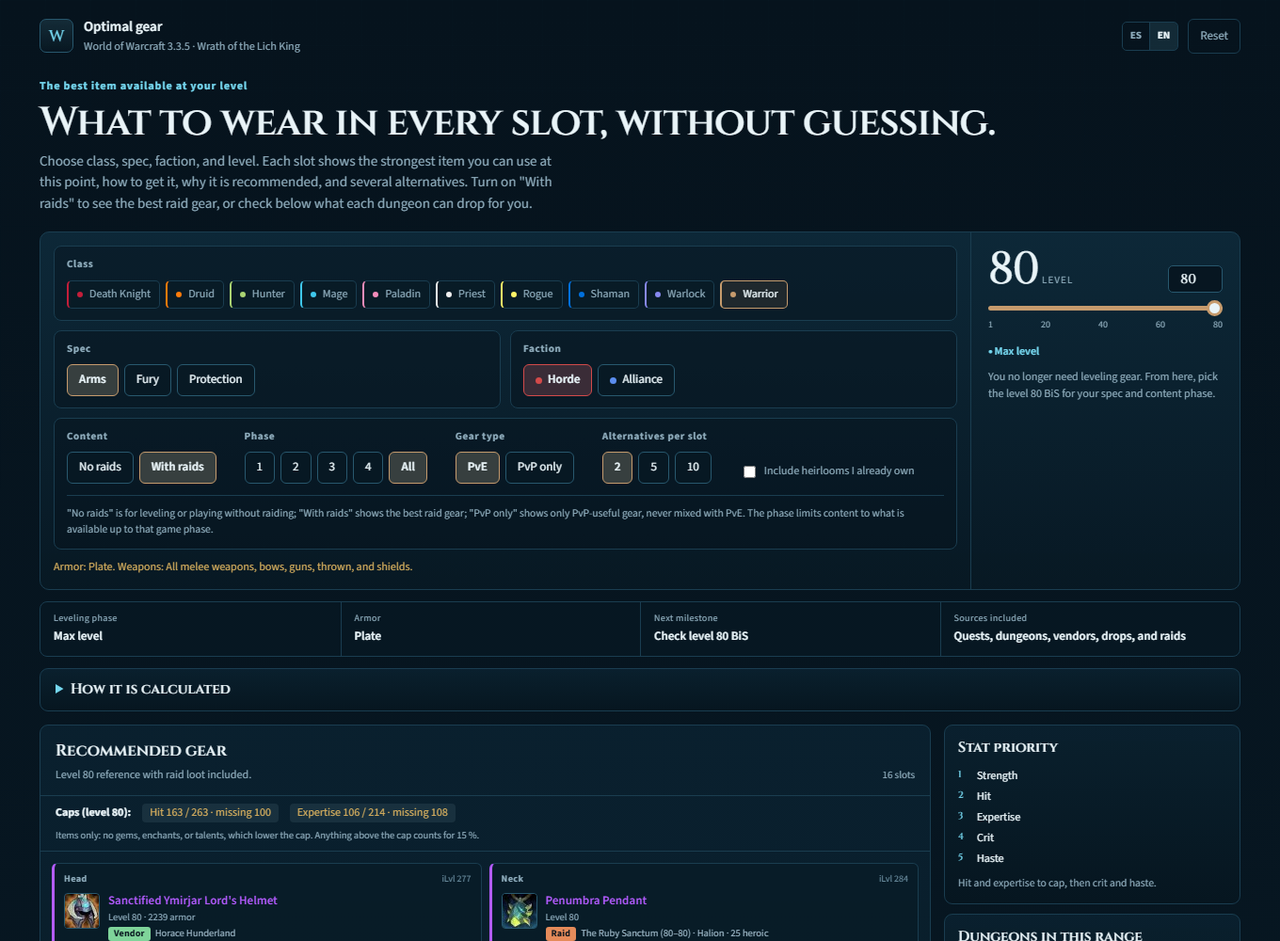
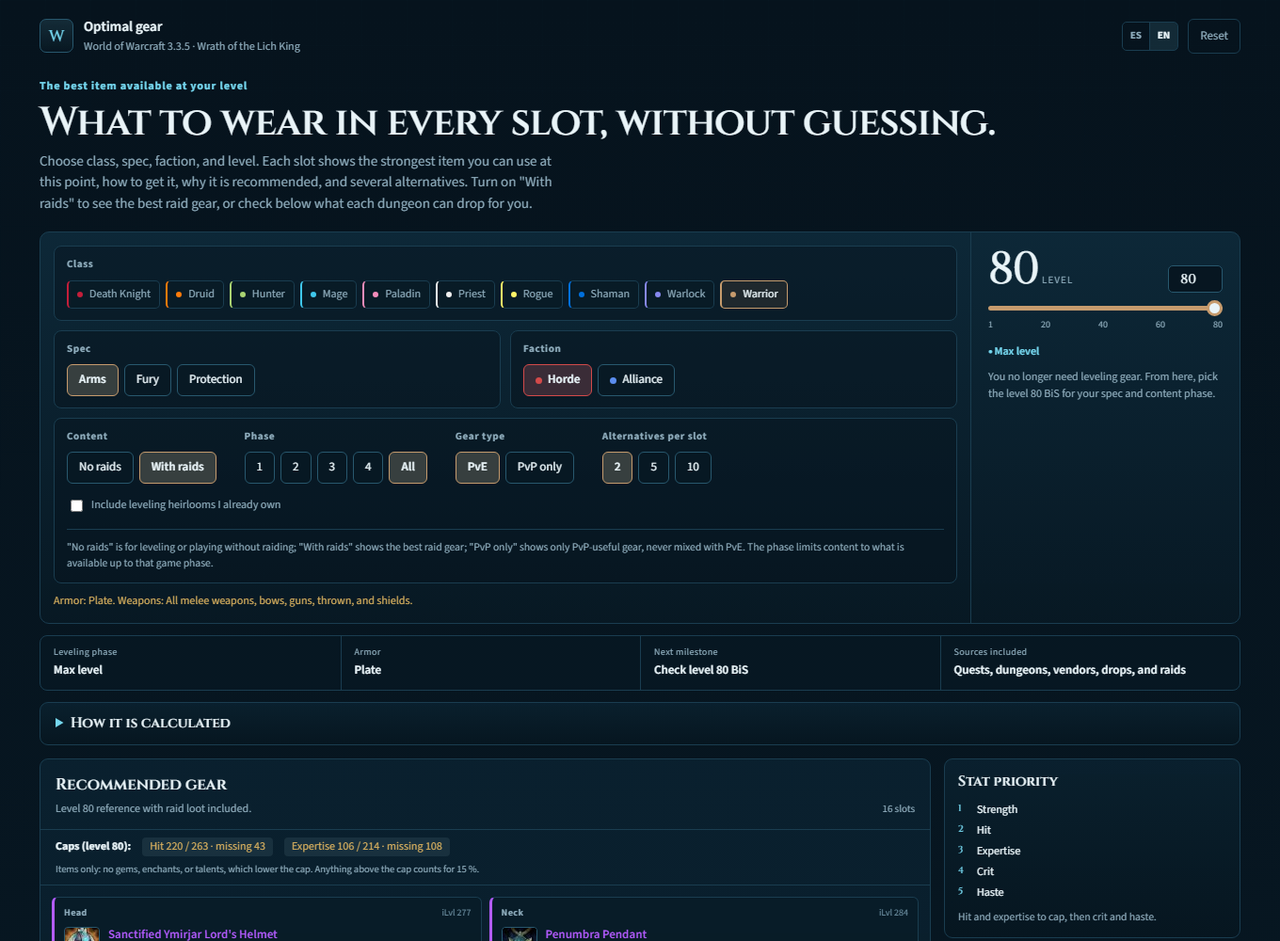
docs: document curated references and new tests

diff --git a/README.es.md b/README.es.md
@@ -16,19 +16,22 @@ Incluye las 10 clases de WotLK, 31 especialidades, niveles 1–80, Horda/Alianza
 
 ## Características
 
-- **Ficha de equipamiento completa**: cabeza, cuello, hombros, espalda, pecho, muñecas, manos, cintura, piernas, pies, anillos, abalorios, mano principal, mano secundaria, a distancia y reliquia.
+- **Ficha de equipamiento completa**: cabeza, cuello, hombros, espalda, pecho, muñecas, manos, cintura, piernas, pies, anillos, abalorios, mano principal, mano secundaria, a distancia y reliquia de clase.
 - **Mejor objeto por slot** con 2, 5 o 10 alternativas, ordenadas por puntuación (no por fuente).
 - **Cómo conseguirlo**: cada objeto muestra su fuente (misión, vendedor, jefe de mazmorra con probabilidad de drop, banda, drop raro) y enlaza a su ficha de EVOWOW.
 - **«¿Por qué este objeto?»** por slot: desglose de la puntuación por estadística, penalización por tipo de armadura, comparación con la siguiente alternativa y aviso cuando una opción de mayor nivel está oculta o es peor.
 - **Modos de contenido**: «Sin bandas» (por defecto) o «Con bandas», fase de raid 1–4 o Todas y un modo aparte «Solo PvP» (el PvE es el predeterminado; el equipo PvP nunca se mezcla en la recomendación PvE).
 - **Legendarios incluidos**: los legendarios se puntúan como cualquier otro objeto y aparecen cuando son la mejor opción; los de banda requieren «Con bandas». La página muestra el top por slot, no un catálogo completo de legendarios.
-- **Abalorios con procs**: los efectos de uso y los procs se promedian según duración y enfriamiento (≈).
+- **Abalorios con procs**: los efectos de uso y los procs se promedian según duración y enfriamiento (≈). Las listas curadas de abalorios de las guías mandan en su slot.
+- **Gemas y sockets recomendados por las guías**: cada socket se valora con la mejor gema recomendada para la especialidad, y el bonus de socket cuenta la mitad.
+- **Bonus de set T10**: el valor estimado del bonus de 2 o 4 piezas se reparte solo entre las piezas que recomienda la guía, no entre todo el set.
+- **Reliquias de clase**: sigilos, tótems, ídolos y librams son equipo normal y se recomiendan cuando la guía los incluye. Son distintas de las reliquias de subida (heirlooms).
 - **Topes de nivel 80**: se muestran los totales de golpe y pericia; lo que excede el tope vale un 15 %.
 - **Buscador de botín**: indica lo que lleva puesto tu personaje (o carga el recomendado), elige una mazmorra o banda y mira todo lo que puede soltar para tu clase y especialidad, con el % de cambio frente a tu pieza equipada. El botín fuera de especialidad queda oculto por defecto y se puede mostrar con un interruptor.
 - **Filtro de facción**: las misiones y vendedores se ajustan a Horda o Alianza.
 - **Interfaz bilingüe**: español e inglés.
 - **Detalle de cada objeto**: icono, calidad, nivel de objeto, nivel requerido, estadísticas relevantes y fuente.
-- **Reliquias de herencia opcionales**: las 35 reliquias tienen estadísticas exactas por nivel y cambio de tipo de armadura antes del nivel 40. Quedan fuera de las recomendaciones salvo que marques «Incluir reliquias que ya tengo», porque sus vendedores requieren moneda de nivel 80.
+- **Reliquias de subida (heirlooms) opcionales**: las 35 reliquias de subida tienen estadísticas exactas por nivel y cambio de tipo de armadura antes del nivel 40. Quedan fuera de las recomendaciones salvo que marques «Incluir reliquias de subida (heirlooms) que ya tengo», porque sus vendedores requieren moneda de nivel 80.
 - **Tooltips de EVOWOW** para todos los objetos.
 - **Diseño responsive** y selección guardada en `localStorage`.
 - **Sin backend** y sin compilación para ver la página.
@@ -36,11 +39,11 @@ Incluye las 10 clases de WotLK, 31 especialidades, niveles 1–80, Horda/Alianza
 ## Cómo funciona
 
 1. `scripts/fetch_raw.py` descarga los datos crudos de objetos y zonas, `scripts/fetch_heirloom_stats.py` añade las estadísticas de las reliquias nivel a nivel, y `scripts/fetch_atlasloot.py` + `scripts/build_loot.py` añaden las tablas de botín por jefe de WotLK (Ulduar, Trial of the Crusader, Icecrown Citadel, mazmorras heroicas, 10/25) desde AtlasLootClassic.
-2. `scripts/build_item_db.py` normaliza objetos, estadísticas (incluidos los procs y efectos de uso de abalorios, promediados), niveles requeridos, armadura/armas y fuentes.
-3. `scripts/build_recommendations.py` genera la base de objetos, las definiciones de especialidad, los pesos de estadísticas y la lista de mazmorras. A nivel 80 se usa la prioridad de Icy Veins de cada especialidad, calibrada con WowSims cuando hay datos; por debajo de 80, los pesos por rol mantienen el equipo de subida coherente. Las reliquias solo se rankean si activas «Incluir reliquias que ya tengo». El ranking se calcula en el navegador, así que los filtros de modo, fase, PvP y facción se aplican al instante.
+2. `scripts/build_item_db.py` normaliza objetos, estadísticas (incluidos los procs y efectos de uso de abalorios, promediados, sockets y bonus de socket), niveles requeridos, armadura/armas y fuentes.
+3. `scripts/build_recommendations.py` genera la base de objetos, las definiciones de especialidad, los pesos de estadísticas, las gemas de referencia, los bonus de set T10, los abalorios y reliquias curados y la lista de mazmorras. A nivel 80 se usa la prioridad de Icy Veins de cada especialidad, calibrada con WowSims cuando hay datos; por debajo de 80, los pesos por rol mantienen el equipo de subida coherente. Las reliquias de subida solo se rankean si activas «Incluir reliquias de subida (heirlooms) que ya tengo»; las reliquias de clase son equipo normal. El ranking se calcula en el navegador, así que los filtros de modo, fase, PvP y facción se aplican al instante.
 4. `scripts/build_page.py` inyecta el JSON generado en `src/template.html` y escribe `tolltip.html`.
 
-El ranking es una heurística práctica, no un simulador de combate: ordena por una puntuación ponderada de estadísticas (el nivel de objeto solo desempata), usa prioridades por especialidad a nivel 80 y pesos por rol durante la subida, penaliza los tipos de armadura que no son ideales para la clase, promedia los procs y efectos de uso de los abalorios según duración y enfriamiento, aplica los topes de golpe/pericia a nivel 80 y compara dos manos contra una mano + secundaria. Un arma a dos manos bloquea la mano secundaria salvo en especialidades con Titan's Grip. Los épicos sin fuente registrada de nivel de objeto 213 o más se tratan como botín de banda («banda probable»). Aún no se puntúan gemas, encantamientos, bonificaciones de set ni objetos con encantamiento aleatorio.
+El ranking es una heurística práctica, no un simulador de combate: ordena por una puntuación ponderada de estadísticas (el nivel de objeto solo desempata), usa prioridades por especialidad a nivel 80 y pesos por rol durante la subida, penaliza los tipos de armadura que no son ideales para la clase, promedia los procs y efectos de uso de los abalorios según duración y enfriamiento, valora las gemas recomendadas por las guías en cada socket, reparte el bonus de set T10 solo entre las piezas recomendadas, aplica los topes de golpe/pericia a nivel 80 y compara dos manos contra una mano + secundaria. Un arma a dos manos bloquea la mano secundaria salvo en especialidades con Titan's Grip. Los épicos sin fuente registrada de nivel de objeto 213 o más se tratan como botín de banda («banda probable»). Aún no se puntúan encantamientos ni objetos con encantamiento aleatorio.
 
 ## Inicio rápido
 
@@ -69,11 +72,14 @@ python scripts/build_page.py
 
 python tests/smoke.py
 python tests/check_reference.py
+python tests/check_reference.py --ref=reference_bis_ids.json
 python tests/heirlooms.py
 python tests/spec_weights.py
+python tests/features.py
+python tests/reference_ids.py
 ```
 
-`build_page.py` escribe `tolltip.html` en el repositorio y, si existe, también en `~/Desktop/tolltip.html`. `check_reference.py` audita las 31 especialidades a nivel 80 contra las listas BiS de Icy Veins en `tests/reference_bis.json` e informa de aciertos y coincidencias exactas; `heirlooms.py` cubre el escalado por nivel, el filtro fuera de especialidad, las armas a dos manos y la búsqueda de reliquias; `spec_weights.py` comprueba las 31 especialidades a nivel 80.
+`build_page.py` escribe `tolltip.html` en el repositorio y, si existe, también en `~/Desktop/tolltip.html`. `check_reference.py` audita las 31 especialidades a nivel 80 contra las listas BiS de Icy Veins en `tests/reference_bis.json` (o `--ref=reference_bis_ids.json` para la referencia por ID) e informa de aciertos y coincidencias exactas; `heirlooms.py` cubre el escalado por nivel, el filtro fuera de especialidad, las armas a dos manos y la búsqueda de reliquias; `features.py` cubre gemas/sockets, bonus de set y reliquias curadas; `reference_ids.py` valida la referencia por ID; `spec_weights.py` comprueba las 31 especialidades a nivel 80.
 
 ## Estructura del proyecto
 
@@ -103,7 +109,7 @@ Las tablas de botín por jefe vienen de [AtlasLootClassic](https://github.com/Ho
 
 Los tooltips e iconos se cargan desde [EVOWOW](https://wotlk.evowow.com/).
 
-Las estadísticas de las reliquias vienen de las tablas por nivel de [WoWWiki archive](https://wowwiki-archive.fandom.com/) y de la [API de tooltips de Wowhead WotLK](https://www.wowhead.com/wotlk). Las prioridades de estadísticas a nivel 80 siguen [Icy Veins WotLK Classic](https://www.icy-veins.com/wotlk-classic/) y, cuando hay datos, se calibran con los valores EP de [WowSims](https://wowsims.github.io/wotlk/); `data/spec_weights.json` guarda la fuente y la prioridad de cada especialidad, y `data/reference_spec_stats.json` conserva los valores de referencia en bruto.
+Las estadísticas de las reliquias vienen de las tablas por nivel de [WoWWiki archive](https://wowwiki-archive.fandom.com/) y de la [API de tooltips de Wowhead WotLK](https://www.wowhead.com/wotlk). Las prioridades de estadísticas a nivel 80 siguen [Icy Veins WotLK Classic](https://www.icy-veins.com/wotlk-classic/) y, cuando hay datos, se calibran con los valores EP de [WowSims](https://wowsims.github.io/wotlk/); `data/spec_weights.json` guarda la fuente y la prioridad de cada especialidad, y `data/reference_spec_stats.json` conserva los valores de referencia en bruto. Las gemas, bonus de set T10, abalorios y reliquias de clase recomendados por las guías se guardan en `data/reference_gems.json`, `data/reference_sets.json` y `data/reference_trinkets.json`, con sus fuentes en cada archivo.
 
 Este proyecto no está afiliado a Blizzard Entertainment. World of Warcraft y Wrath of the Lich King son marcas de Blizzard Entertainment.
 
@@ -111,9 +117,11 @@ Este proyecto no está afiliado a Blizzard Entertainment. World of Warcraft y Wr
 
 - La base está basada en WotLK Classic; algunas fuentes originales de 3.3.5 pueden faltar o aparecer como “Otra fuente”.
 - En «Sin bandas» se excluyen el botín de banda y las cadenas de misión de banda; en «Con bandas» aparecen.
-- Los pesos de estadísticas son aproximaciones por rol durante la subida y siguen las prioridades de Icy Veins, calibradas con WowSims cuando hay datos, a nivel 80. Sirven para orientar, no sustituyen a un simulador de BiS; los topes suaves de celeridad, los sets y las interacciones de talentos no se modelan.
+- Los pesos de estadísticas son aproximaciones por rol durante la subida y siguen las prioridades de Icy Veins, calibradas con WowSims cuando hay datos, a nivel 80. Sirven para orientar, no sustituyen a un simulador de BiS; los topes suaves de celeridad y las interacciones de talentos no se modelan.
+- Las gemas asumen la gema recomendada por la guía en cada socket y el bonus de socket cuenta la mitad. Los encantamientos, los encantamientos aleatorios y algunas interacciones de abalorios/sets siguen simplificados.
+- El bonus de set T10 es una estimación que se reparte solo entre las piezas recomendadas por la guía; no simula por completo el uptime de 2 o 4 piezas.
 - El botín fuera de especialidad está oculto por defecto. El interruptor lo muestra atenuado para valorar mejoras cruzadas sin mezclarlo con la recomendación.
-- Las reliquias no se recomiendan por defecto: los Emblemas de Heroísmo y las Marcas de la Conquista del Invierno se obtienen a nivel 80. Activa «Incluir reliquias que ya tengo» solo si realmente las tienes.
+- Las reliquias de subida (heirlooms) no se recomiendan por defecto: los Emblemas de Heroísmo y las Marcas de la Conquista del Invierno se obtienen a nivel 80. Activa «Incluir reliquias de subida (heirlooms) que ya tengo» solo si realmente las tienes. Las reliquias de clase son distintas y sí aparecen en el ranking.
 - Algunos slots de niveles muy bajos pueden no tener objetos con estadísticas conocidas.
 - La página muestra el mejor objeto y alternativas por slot, no todos los objetos. Un legendario solo aparece si puntúa para la especialidad, nivel, facción, modo, fase y filtro PvP seleccionados. Los legendarios de nivel bajo o que dependen de una combinación no modelada pueden no aparecer.
 - Las combinaciones de armas cubren Frost Death Knight con dos armas de una mano y Titan's Grip de Fury (dos armas a dos manos). Otros setups especiales siguen simplificados, así que aún pueden faltar algunos objetos BiS.

diff --git a/README.md b/README.md
@@ -16,19 +16,22 @@ It supports all 10 WotLK classes, 31 specializations, levels 1–80, Horde/Allia
 
 ## Features
 
-- **Full equipment sheet**: head, neck, shoulders, back, chest, wrists, hands, waist, legs, feet, rings, trinkets, main hand, off hand, ranged, and relic.
+- **Full equipment sheet**: head, neck, shoulders, back, chest, wrists, hands, waist, legs, feet, rings, trinkets, main hand, off hand, ranged, and class relic.
 - **Best item per slot** with 2, 5, or 10 alternatives, ranked by score (not by source).
 - **How to get it**: every item shows its source (quest, vendor, dungeon boss with drop chance, raid, rare drop) and links to its EVOWOW page.
 - **"Why this item?"** per slot: score breakdown by stat, armor-type penalty, comparison with the next alternative, and a warning when a higher item level option is hidden or weaker.
 - **Content modes**: "No raids" (default) or "With raids", raid phase 1–4 or All, and a separate "PvP only" mode (PvE is the default; PvP gear is never mixed into PvE recommendations).
 - **Legendary items included**: legendaries are scored like any other item and appear when they are the best option; raid legendaries require "With raids". The page shows the top choices per slot, not a full legendary catalog.
-- **Proc-aware trinkets**: on-use and proc effects are averaged by duration and cooldown (≈).
+- **Proc-aware trinkets**: on-use and proc effects are averaged by duration and cooldown (≈). Curated trinket lists from the guides take priority in their slot.
+- **Guide-recommended gems and sockets**: each socket is valued with the best gem recommended for the spec, and socket bonuses count for half.
+- **Tier 10 set bonuses**: the estimated 2-piece or 4-piece bonus is shared only among the pieces the guide recommends, not every piece of the set.
+- **Class relics**: sigils, totems, idols, and librams are normal gear and are recommended when the guide lists them. They are separate from leveling heirlooms.
 - **Level 80 caps**: hit and expertise totals are shown; stats above the cap count for 15 %.
 - **Loot browser**: enter what your character is wearing (or load the recommended set), pick a dungeon or raid, and see every item it can drop for your class and spec with the % change over your equipped piece. Off-spec items are hidden by default and can be revealed with a toggle.
 - **Faction-aware**: quests and vendors are filtered for Horde or Alliance.
 - **Bilingual UI**: Spanish and English.
 - **Item details**: icon, quality color, item level, required level, relevant stats, and source.
-- **Optional heirlooms**: all 35 heirlooms have exact stats per level and armor-type changes before level 40. They stay out of recommendations unless you mark “Include heirlooms I already own”, because their vendors require level-80 currency.
+- **Optional heirlooms**: all 35 leveling heirlooms have exact stats per level and armor-type changes before level 40. They stay out of recommendations unless you mark “Include leveling heirlooms I already own”, because their vendors require level-80 currency.
 - **EVOWOW tooltips** for every item.
 - **Responsive layout** and persisted selection (`localStorage`).
 - **No backend** and no build step required to view the page.
@@ -36,11 +39,11 @@ It supports all 10 WotLK classes, 31 specializations, levels 1–80, Horde/Allia
 ## How it works
 
 1. `scripts/fetch_raw.py` downloads the raw item and zone data, `scripts/fetch_heirloom_stats.py` adds level-by-level heirloom stats, and `scripts/fetch_atlasloot.py` + `scripts/build_loot.py` add per-boss loot tables for WotLK (Ulduar, Trial of the Crusader, Icecrown Citadel, heroic dungeons, 10/25) from AtlasLootClassic.
-2. `scripts/build_item_db.py` normalizes items, stats (including averaged trinket procs and on-use effects), required levels, armor/weapon metadata, and sources.
-3. `scripts/build_recommendations.py` emits the item database, spec definitions, stat weights, and dungeon list. Level-80 weights follow each spec's Icy Veins priority, calibrated with WowSims where available; below 80 the role weights keep leveling gear sensible. Heirlooms are ranked only when the “already own” toggle is enabled. The ranking itself runs in the browser, so mode, phase, PvP, and faction filters apply instantly.
+2. `scripts/build_item_db.py` normalizes items, stats (including averaged trinket procs, on-use effects, sockets, and socket bonuses), required levels, armor/weapon metadata, and sources.
+3. `scripts/build_recommendations.py` emits the item database, spec definitions, stat weights, reference gems, T10 set bonuses, curated trinkets/relics, and the dungeon list. Level-80 weights follow each spec's Icy Veins priority, calibrated with WowSims where available; below 80 the role weights keep leveling gear sensible. Heirlooms are ranked only when the “already own” toggle is enabled; class relics are normal gear. The ranking itself runs in the browser, so mode, phase, PvP, and faction filters apply instantly.
 4. `scripts/build_page.py` injects the generated JSON into `src/template.html` and writes `tolltip.html`.
 
-The ranking is a practical heuristic, not a combat simulator: it sorts by a weighted stat score (item level only breaks ties), uses per-spec priorities at level 80 and role weights while leveling, penalizes armor types that are not ideal for the class, averages trinket procs and on-use effects by duration and cooldown, applies hit/expertise caps at level 80, and compares two-handers against one-hand + off-hand. A two-hander blocks the off-hand slot unless the spec uses Titan's Grip. Epic items with no recorded source at item level 213 or higher are treated as raid loot ("likely raid"). Gems, enchants, set bonuses, and random-enchant items are not scored yet.
+The ranking is a practical heuristic, not a combat simulator: it sorts by a weighted stat score (item level only breaks ties), uses per-spec priorities at level 80 and role weights while leveling, penalizes armor types that are not ideal for the class, averages trinket procs and on-use effects by duration and cooldown, applies guide-recommended gems per socket, shares the T10 set bonus only among the recommended pieces, applies hit/expertise caps at level 80, and compares two-handers against one-hand + off-hand. A two-hander blocks the off-hand slot unless the spec uses Titan's Grip. Epic items with no recorded source at item level 213 or higher are treated as raid loot ("likely raid"). Enchants and random-enchant items are not scored yet.
 
 ## Quick start
 
@@ -69,11 +72,14 @@ python scripts/build_page.py
 
 python tests/smoke.py
 python tests/check_reference.py
+python tests/check_reference.py --ref=reference_bis_ids.json
 python tests/heirlooms.py
 python tests/spec_weights.py
+python tests/features.py
+python tests/reference_ids.py
 ```
 
-`build_page.py` writes `tolltip.html` in the repository and, when available, to `~/Desktop/tolltip.html`. `check_reference.py` audits all 31 level-80 specializations against the Icy Veins BiS lists in `tests/reference_bis.json` and reports hit/exact rates; `heirlooms.py` covers level scaling, off-spec filtering, two-handed weapons, and relic search; `spec_weights.py` checks all 31 level-80 specializations.
+`build_page.py` writes `tolltip.html` in the repository and, when available, to `~/Desktop/tolltip.html`. `check_reference.py` audits all 31 level-80 specializations against the Icy Veins BiS lists in `tests/reference_bis.json` (or `--ref=reference_bis_ids.json` for the ID-based reference) and reports hit/exact rates; `heirlooms.py` covers level scaling, off-spec filtering, two-handed weapons, and relic search; `features.py` covers gems/sockets, set bonuses, and curated relics; `reference_ids.py` validates the ID-based reference; `spec_weights.py` checks all 31 level-80 specializations.
 
 ## Project structure
 
@@ -102,7 +108,7 @@ Per-boss loot tables come from [AtlasLootClassic](https://github.com/Hoizame/Atl
 
 Item tooltips and icons are loaded from [EVOWOW](https://wotlk.evowow.com/).
 
-Heirloom stats come from the [WoWWiki archive](https://wowwiki-archive.fandom.com/) level tables and the [Wowhead WotLK tooltip API](https://www.wowhead.com/wotlk). Level-80 stat priorities follow [Icy Veins WotLK Classic](https://www.icy-veins.com/wotlk-classic/) and, where available, are calibrated with [WowSims](https://wowsims.github.io/wotlk/) EP values; `data/spec_weights.json` records the source and priority for every specialization, and `data/reference_spec_stats.json` keeps the raw reference values.
+Heirloom stats come from the [WoWWiki archive](https://wowwiki-archive.fandom.com/) level tables and the [Wowhead WotLK tooltip API](https://www.wowhead.com/wotlk). Level-80 stat priorities follow [Icy Veins WotLK Classic](https://www.icy-veins.com/wotlk-classic/) and, where available, are calibrated with [WowSims](https://wowsims.github.io/wotlk/) EP values; `data/spec_weights.json` records the source and priority for every specialization, and `data/reference_spec_stats.json` keeps the raw reference values. Guide-recommended gems, T10 set bonuses, trinkets, and class relics are stored in `data/reference_gems.json`, `data/reference_sets.json`, and `data/reference_trinkets.json`, with sources recorded in each file.
 
 This project is not affiliated with Blizzard Entertainment. World of Warcraft and Wrath of the Lich King are trademarks of Blizzard Entertainment.
 
@@ -110,9 +116,11 @@ This project is not affiliated with Blizzard Entertainment. World of Warcraft an
 
 - The dataset is based on WotLK Classic; a few original 3.3.5 sources may be missing or labeled as “Other source”.
 - "No raids" excludes raid loot and raid quest chains; "With raids" includes them.
-- Stat weights are role-based while leveling and follow Icy Veins priorities, calibrated with WowSims where available, at level 80. They are designed to be useful, not to replace a full BiS simulator; haste soft caps, set bonuses, and talent interactions are not modeled.
+- Stat weights are role-based while leveling and follow Icy Veins priorities, calibrated with WowSims where available, at level 80. They are designed to be useful, not to replace a full BiS simulator; haste soft caps and talent interactions are not modeled.
+- Gem values assume the guide-recommended gem for each socket and count socket bonuses at half. Enchants, random enchants, and some trinket/set interactions are still simplified.
+- The T10 set bonus is an estimate shared only among the pieces recommended by the guide; it is not a full simulation of 2-piece/4-piece uptime.
 - Off-spec loot is hidden by default. The toggle reveals it faded so you can judge cross-spec upgrades without mixing it into the recommendation.
-- Heirlooms are not recommended by default: Emblems of Heroism and Wintergrasp Marks are earned at level 80. Enable “Include heirlooms I already own” only if you actually have them.
+- Leveling heirlooms are not recommended by default: Emblems of Heroism and Wintergrasp Marks are earned at level 80. Enable “Include leveling heirlooms I already own” only if you actually have them. Class relics are separate and do appear in the ranking.
 - Some very low-level slots may legitimately have no item with known stats.
 - The page shows the best item plus alternatives per slot, not every item. A legendary only appears if it ranks for the selected spec, level, faction, mode, phase, and PvP filter. Low-level legendaries or ones that depend on an unmodeled setup may not appear.
 - Weapon combinations cover dual-wield Frost Death Knights and Fury's Titan's Grip (two two-handed weapons). Other special setups remain simplified, so some BiS items may still be missing.

diff --git a/CONTRIBUTING.es.md b/CONTRIBUTING.es.md
@@ -47,8 +47,11 @@ Ejecuta las pruebas de humo y regresión:
 ```bash
 python tests/smoke.py
 python tests/check_reference.py
+python tests/check_reference.py --ref=reference_bis_ids.json
 python tests/heirlooms.py
 python tests/spec_weights.py
+python tests/features.py
+python tests/reference_ids.py
 ```
 
 ## Dónde hacer los cambios
@@ -59,9 +62,12 @@ python tests/spec_weights.py
 - `scripts/fetch_heirloom_stats.py`: estadísticas de reliquias nivel a nivel desde WoWWiki archive y Wowhead.
 - `scripts/build_page.py`: inyecta los datos en la plantilla y escribe `tolltip.html`.
 - `tests/smoke.py`: prueba de humo en navegador.
-- `tests/check_reference.py`: auditoría de aciertos contra las listas BiS de Icy Veins para las 31 especialidades a nivel 80.
-- `tests/reference_bis.json`: listas BiS de referencia que usa la auditoría.
-- `tests/heirlooms.py`: escalado de reliquias, filtro fuera de especialidad, reglas de mano secundaria con 2H y búsqueda de reliquias.
+- `tests/check_reference.py`: auditoría de aciertos contra las listas BiS de Icy Veins para las 31 especialidades a nivel 80; `--ref=reference_bis_ids.json` usa la referencia por ID.
+- `tests/reference_bis.json`: listas BiS de referencia por nombre que usa la auditoría.
+- `tests/reference_bis_ids.json`: referencia por ID con alternativas; la valida `reference_ids.py`.
+- `tests/heirlooms.py`: escalado de reliquias de subida, filtro fuera de especialidad, reglas de mano secundaria con 2H y búsqueda de reliquias.
+- `tests/features.py`: gemas/sockets, bonus de set T10 y abalorios/reliquias curados.
+- `tests/reference_ids.py`: comprueba que cada ID de referencia existe, tiene el nombre correcto y pertenece a una ranura compatible.
 - `tests/spec_weights.py`: las 31 especialidades a nivel 80.
 
 **No** edites `tolltip.html` a mano. Es generado. Después de cambiar la plantilla o los datos, vuelve a ejecutar la generación.
@@ -72,7 +78,8 @@ python tests/spec_weights.py
 - Incluye `data/gear_data.json` cuando cambien las recomendaciones.
 - Incluye `data/heirloom_stats.json` cuando cambien las reliquias y `data/spec_weights.json` cuando cambien las prioridades. Cada especialidad conserva su fuente (Icy Veins y, si aplica, WowSims) y su prioridad; `data/reference_spec_stats.json` guarda los valores de calibración en bruto.
 - Mantén las fuentes y la disponibilidad por facción con la mayor precisión posible. Si una fuente es desconocida, usa “Otra fuente” en vez de adivinar.
-- Al actualizar `tests/reference_bis.json`, comprueba que todos los objetos existan en el dataset y pertenezcan al slot que indica la guía.
+- Al actualizar `tests/reference_bis.json` o `tests/reference_bis_ids.json`, comprueba que todos los objetos existan en el dataset y pertenezcan al slot que indica la guía. Ejecuta `python tests/reference_ids.py`.
+- Las gemas, bonus de set T10, abalorios y reliquias de clase recomendados por las guías están en `data/reference_gems.json`, `data/reference_sets.json` y `data/reference_trinkets.json`. Conserva sus campos `source`/`contrast_source` y actualiza `data/gear_data.json`.
 - No añadas botín de banda al ranking principal de subida salvo que cambie el alcance del proyecto.
 
 ## Reglas de interfaz
@@ -99,7 +106,7 @@ Evita mezclar cambios no relacionados en un mismo commit.
 ## Lista de comprobación para pull requests
 
 - [ ] La página se genera con `python scripts/build_page.py`.
-- [ ] Pasan `python tests/smoke.py`, `tests/check_reference.py`, `tests/heirlooms.py` y `tests/spec_weights.py`.
+- [ ] Pasan `python tests/smoke.py`, `tests/check_reference.py`, `tests/check_reference.py --ref=reference_bis_ids.json`, `tests/heirlooms.py`, `tests/spec_weights.py`, `tests/features.py` y `tests/reference_ids.py`.
 - [ ] `data/gear_data.json` y `tolltip.html` están regenerados si hace falta.
 - [ ] Los textos en español e inglés están actualizados.
 - [ ] No se incluyen datos crudos, cachés ni `__pycache__`.

diff --git a/CONTRIBUTING.md b/CONTRIBUTING.md
@@ -47,8 +47,11 @@ Run the smoke and regression tests:
 ```bash
 python tests/smoke.py
 python tests/check_reference.py
+python tests/check_reference.py --ref=reference_bis_ids.json
 python tests/heirlooms.py
 python tests/spec_weights.py
+python tests/features.py
+python tests/reference_ids.py
 ```
 
 ## Where to make changes
@@ -59,9 +62,12 @@ python tests/spec_weights.py
 - `scripts/fetch_heirloom_stats.py`: level-by-level heirloom stats from the WoWWiki archive and Wowhead.
 - `scripts/build_page.py`: injects data into the template and writes `tolltip.html`.
 - `tests/smoke.py`: browser smoke test.
-- `tests/check_reference.py`: Icy Veins BiS accuracy audit for all 31 level-80 specializations.
-- `tests/reference_bis.json`: reference BiS lists used by the audit.
+- `tests/check_reference.py`: Icy Veins BiS accuracy audit for all 31 level-80 specializations; `--ref=reference_bis_ids.json` uses the ID-based reference.
+- `tests/reference_bis.json`: name-based reference BiS lists used by the audit.
+- `tests/reference_bis_ids.json`: ID-based reference with alternatives; validated by `reference_ids.py`.
 - `tests/heirlooms.py`: heirloom scaling, off-spec filtering, two-handed off-hand rules, and relic search.
+- `tests/features.py`: gems/sockets, T10 set bonuses, and curated trinkets/class relics.
+- `tests/reference_ids.py`: validates that every ID reference exists, has the right name, and belongs to a compatible slot.
 - `tests/spec_weights.py`: all 31 level-80 specializations.
 
 Do **not** edit `tolltip.html` by hand. It is generated. After changing the template or data, run the build again.
@@ -72,7 +78,8 @@ Do **not** edit `tolltip.html` by hand. It is generated. After changing the temp
 - Commit the generated `data/gear_data.json` when recommendations change.
 - Commit `data/heirloom_stats.json` when heirloom stats change and `data/spec_weights.json` when priorities change. Every spec entry keeps its source (Icy Veins and, when applicable, WowSims) and priority; `data/reference_spec_stats.json` holds the raw calibration values.
 - Keep item sources and faction availability accurate. If a source is unknown, label it as “Other source” rather than guessing.
-- When updating `tests/reference_bis.json`, make sure every referenced item exists in the dataset and belongs to the slot where the guide lists it.
+- When updating `tests/reference_bis.json` or `tests/reference_bis_ids.json`, make sure every referenced item exists in the dataset and belongs to the slot where the guide lists it. Run `python tests/reference_ids.py`.
+- Guide-recommended gems, T10 set bonuses, trinkets, and class relics live in `data/reference_gems.json`, `data/reference_sets.json`, and `data/reference_trinkets.json`. Keep their `source`/`contrast_source` fields and update the generated `data/gear_data.json`.
 - Do not add raid loot to the main leveling ranking unless the project scope changes.
 
 ## Interface rules
@@ -99,7 +106,7 @@ Avoid mixing unrelated changes in one commit.
 ## Pull request checklist
 
 - [ ] The page builds with `python scripts/build_page.py`.
-- [ ] `python tests/smoke.py`, `tests/check_reference.py`, `tests/heirlooms.py`, and `tests/spec_weights.py` pass.
+- [ ] `python tests/smoke.py`, `tests/check_reference.py`, `tests/check_reference.py --ref=reference_bis_ids.json`, `tests/heirlooms.py`, `tests/spec_weights.py`, `tests/features.py`, and `tests/reference_ids.py` pass.
 - [ ] `data/gear_data.json` and `tolltip.html` are regenerated if needed.
 - [ ] Both Spanish and English UI strings are updated.
 - [ ] No raw data, caches, or `__pycache__` files are included.
